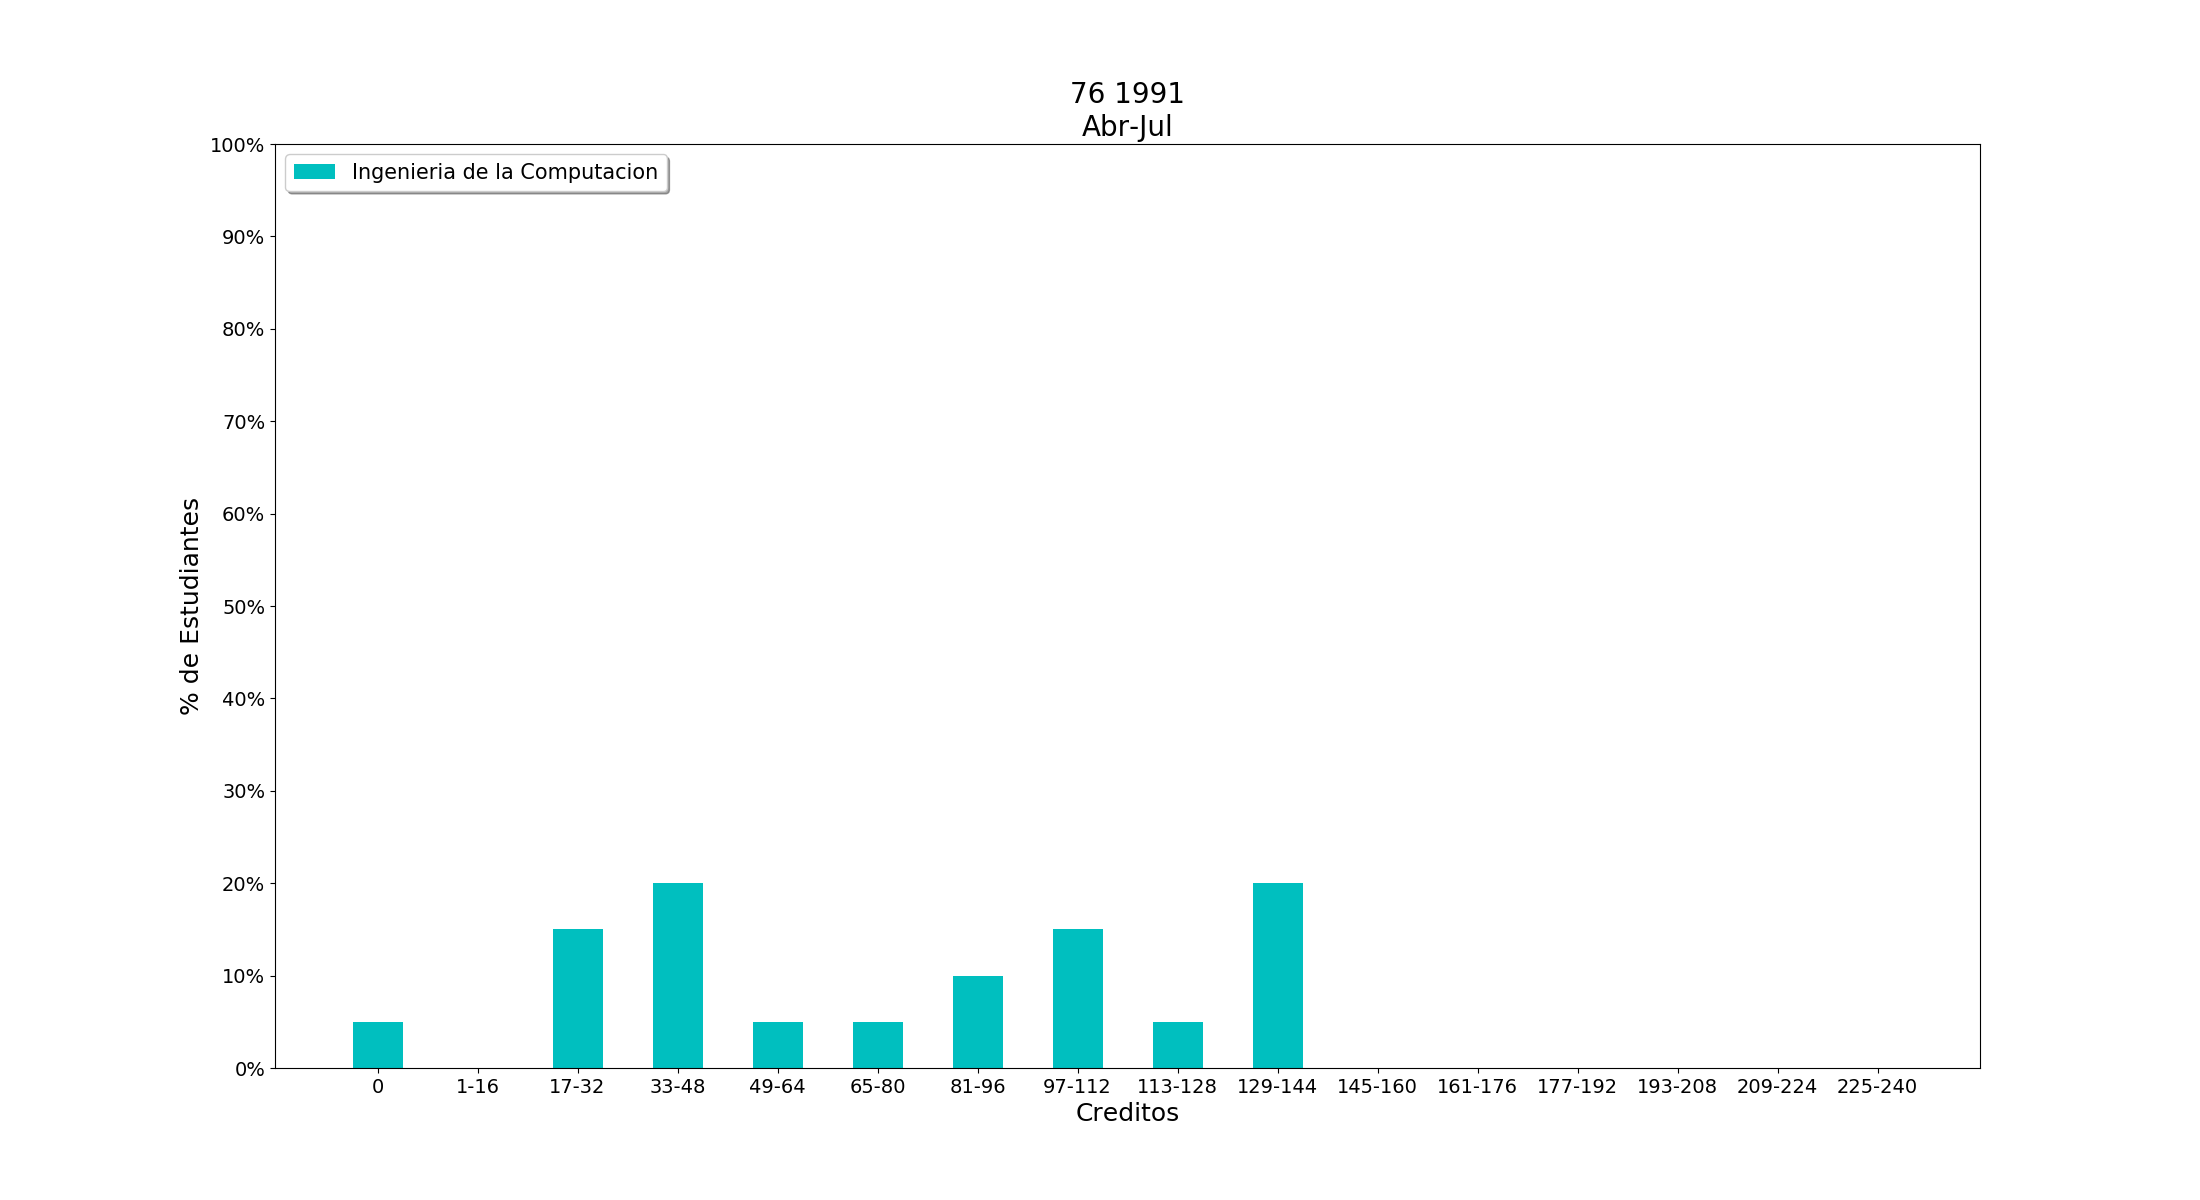
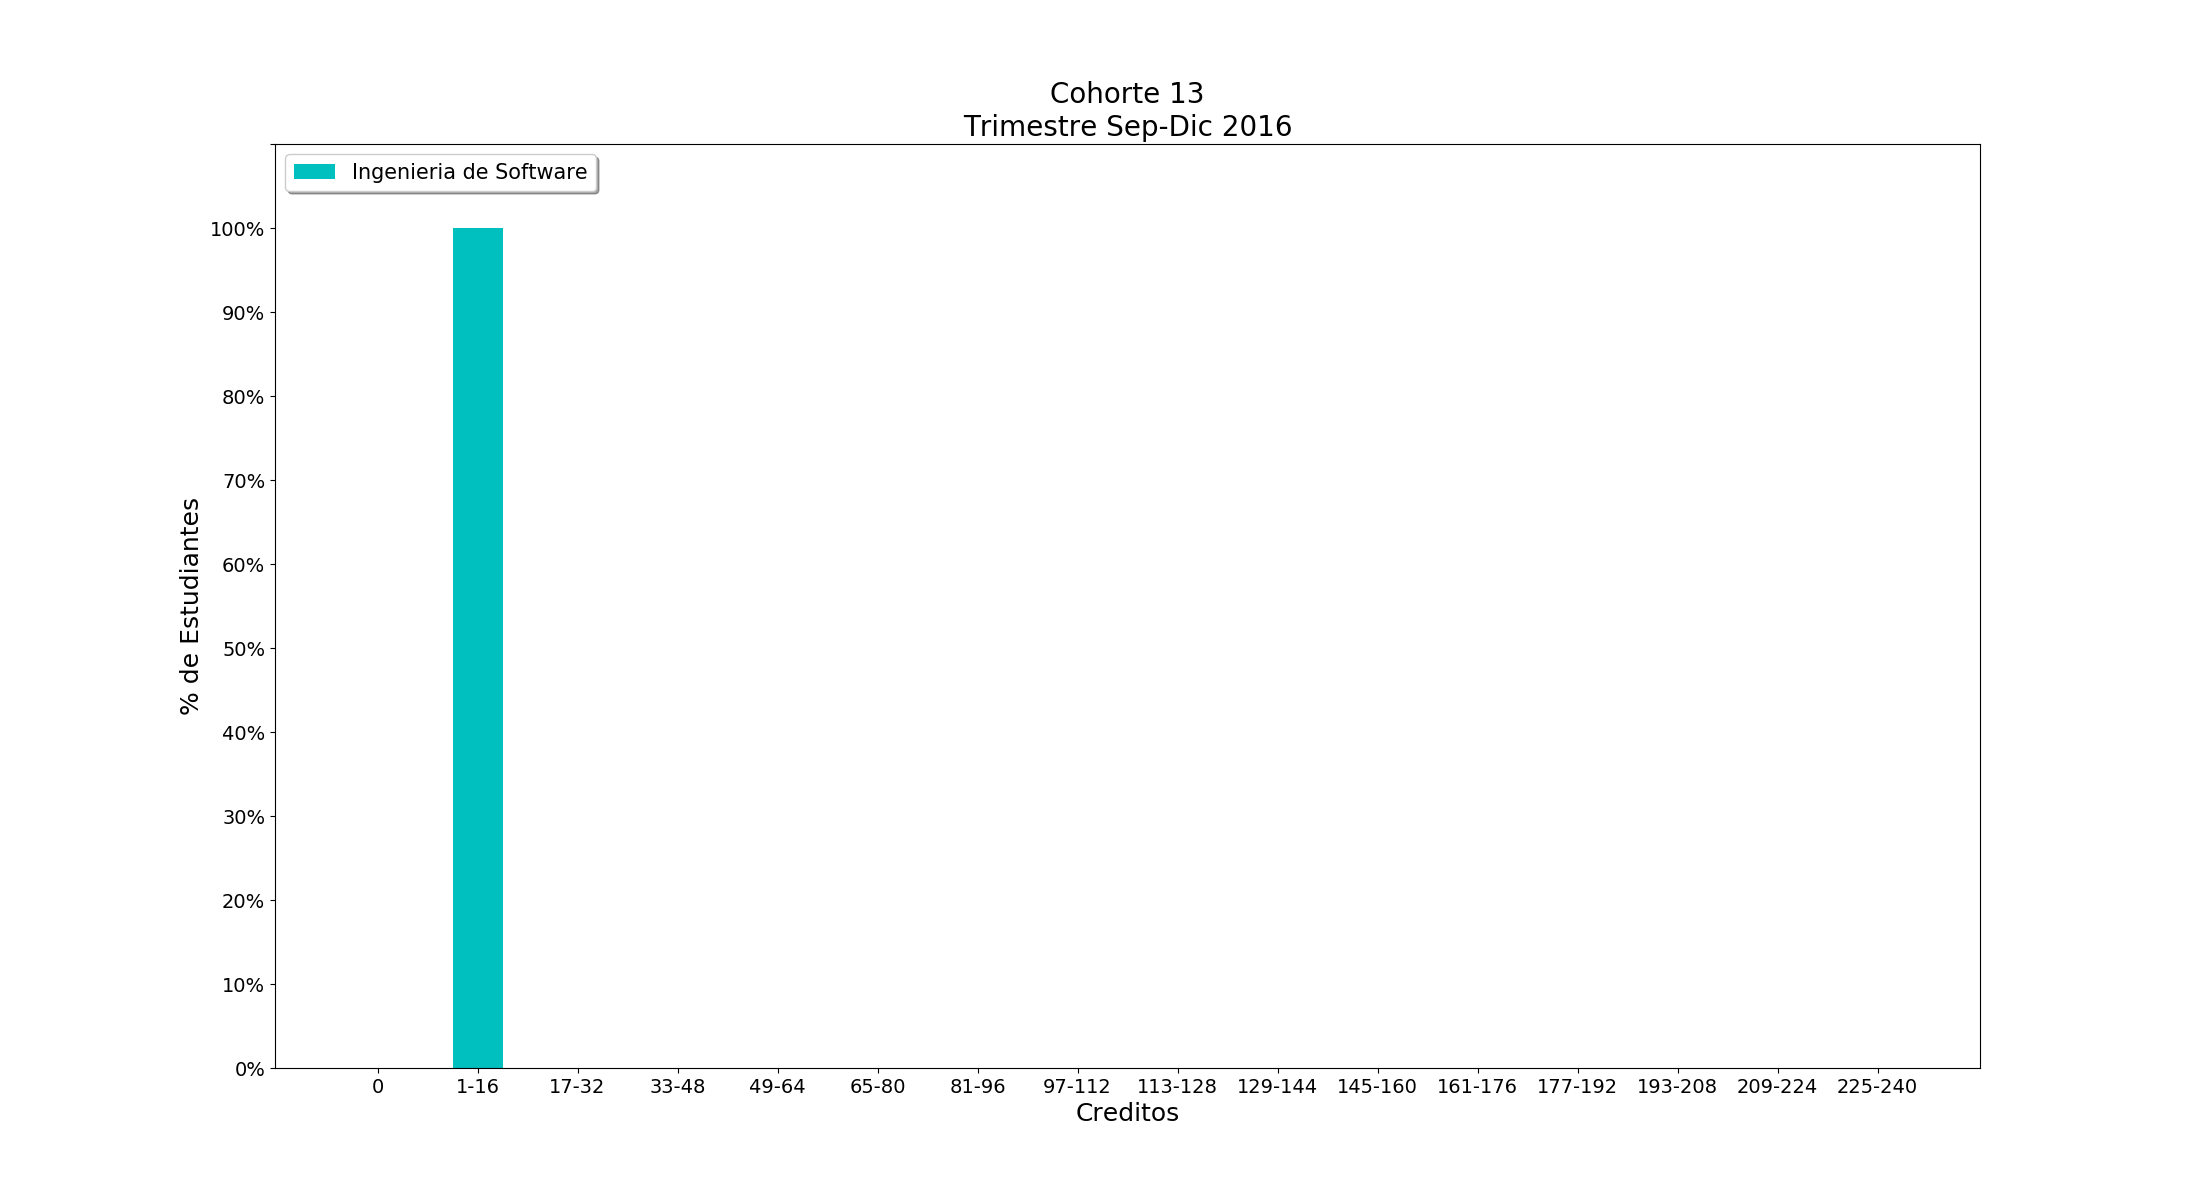
Filtrado de archivos y produccion de grafica final

diff --git a/templates/instantanea.html b/templates/instantanea.html
@@ -19,7 +19,7 @@
                 </select>
             </div>
 
-            <div class ="col-md-3" id="Año Trimestre">
+            <div class ="col-md-3" id="anio">
                 <label for="año" >Año: </label>
                     <select class="select-style" id="anio" name="anio" required>
                         <option value=" " disable >Seleccione uno</option>

diff --git a/apps/registro/grafica.py b/apps/registro/grafica.py
@@ -4,11 +4,12 @@ import matplotlib.pyplot as plt
 from django.shortcuts import render
 import numpy as np
 from matplotlib.backends.backend_agg import FigureCanvasAgg as FigureCanvas
-
+from apps.registro.models import *
 #import matplotlib as matplt
 
 def getcreditsbytrandct(trimestre_dado, cohorte_dada):
     EstudiantesDeCohorteCT = Estudiante.objects.filter(cohorte_id = cohorte_dada)
+    print(Estudiante.objects.first().cohorte_id)
 
     listadeCursaporEstdecohortect = []
     for estudianteCT in EstudiantesDeCohorteCT:
@@ -24,7 +25,8 @@ def getcreditsbytrandct(trimestre_dado, cohorte_dada):
     for cursa_est in listadeCursaporEstdecohortect:
         creditos = 0
         for i in trimestres:
-            creditos += cursa_est.filter(trimestre_id = i).first().creditosAprobados
+            if cursa_est.filter(trimestre_id = i).count() > 0:
+                creditos += cursa_est.filter(trimestre_id = i).first().creditosAprobados
             if i == trimestre_dado:
                 break
         lista[int((creditos -1)/ 16) + 1] += 1
@@ -48,7 +50,7 @@ def crear_grafica(cohorte, carrera, trimestre, total_estudiantes, lista):
     # lista = [3, 8]
 
     # Statico
-    datos = ['0%', '10%', '20%', '30%', '40%', '50%', '60%', '70%', '80%', '90%', '100%']
+    datos = ['0%', '10%', '20%', '30%', '40%', '50%', '60%', '70%', '80%', '90%', '100%', '']
     creditos = []
 
     # arreglo que contendra un % con respecto al 100 % de la cohorte
@@ -114,7 +116,7 @@ def crear_grafica(cohorte, carrera, trimestre, total_estudiantes, lista):
     # nombres, titulos y leyenda y frontera del eje y
     plt.xlabel("Creditos", fontsize=18)
     plt.ylabel("% de Estudiantes", fontsize=18)
-    plt.ylim(0, 10)
+    plt.ylim(0, 11)
 
     # plt.text(10, 30, "probando")
     plt.title(titulo, fontsize=20)

diff --git a/apps/registro/views.py b/apps/registro/views.py
@@ -5,7 +5,8 @@ from apps.registro.forms import RegistroForm
 from django.http import HttpResponse
 from apps.registro.grafica import crear_grafica, getcreditsbytrandct
 from django.contrib.auth.decorators import login_required
- 
+from apps.registro.models import Estudiante
+
 # Create your views here.
 
 class RegistroUsuario(CreateView):
@@ -26,11 +27,15 @@ def instantanea(request):
         anio = request.POST.get('anio')
         cohorte = request.POST.get('Cohorte')
         carrera = request.POST.get('carrera')
-        cohorte = cohorte + " " + anio
+        trimestre = trimestre + " " + anio
+        print(cohorte)
+        print(trimestre)
 
-        total_de_estudiantes = 20
+        total_de_estudiantes = Estudiante.objects.filter(cohorte_id = cohorte).count()
         lista = getcreditsbytrandct(trimestre, cohorte)
+        cohorte_string = "Cohorte " + cohorte
+        trimestre_string = "Trimestre " + trimestre
 
-        crear_grafica(cohorte, carrera, trimestre, total_de_estudiantes, lista)
+        crear_grafica(cohorte_string, carrera, trimestre_string, total_de_estudiantes, lista)
 
     return render(request, "instantanea.html", {'rangeano': range(1968,2018), 'rangecohorte': list1})
